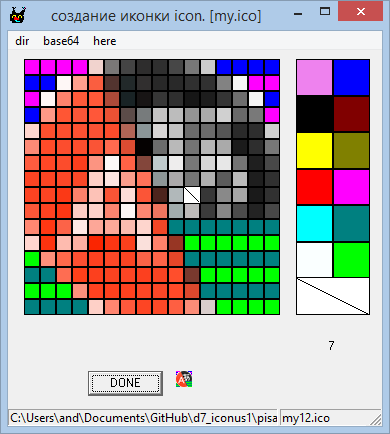
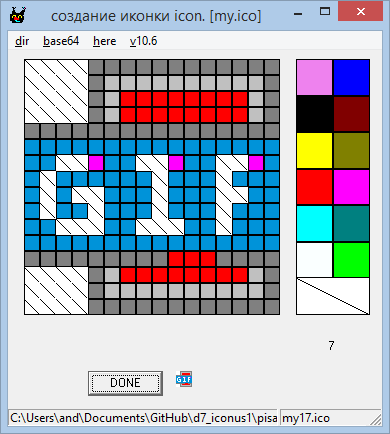
version in visibule

diff --git a/README.md b/README.md
@@ -1,4 +1,5 @@
 # d7_iconus1
 v. 10.6 Multicolor<br>
-create icon from capture slaves table<br>
+Version visible<br>
+Create icon from capture slaves table<br>
 ![alt_text](info.png)<br>
